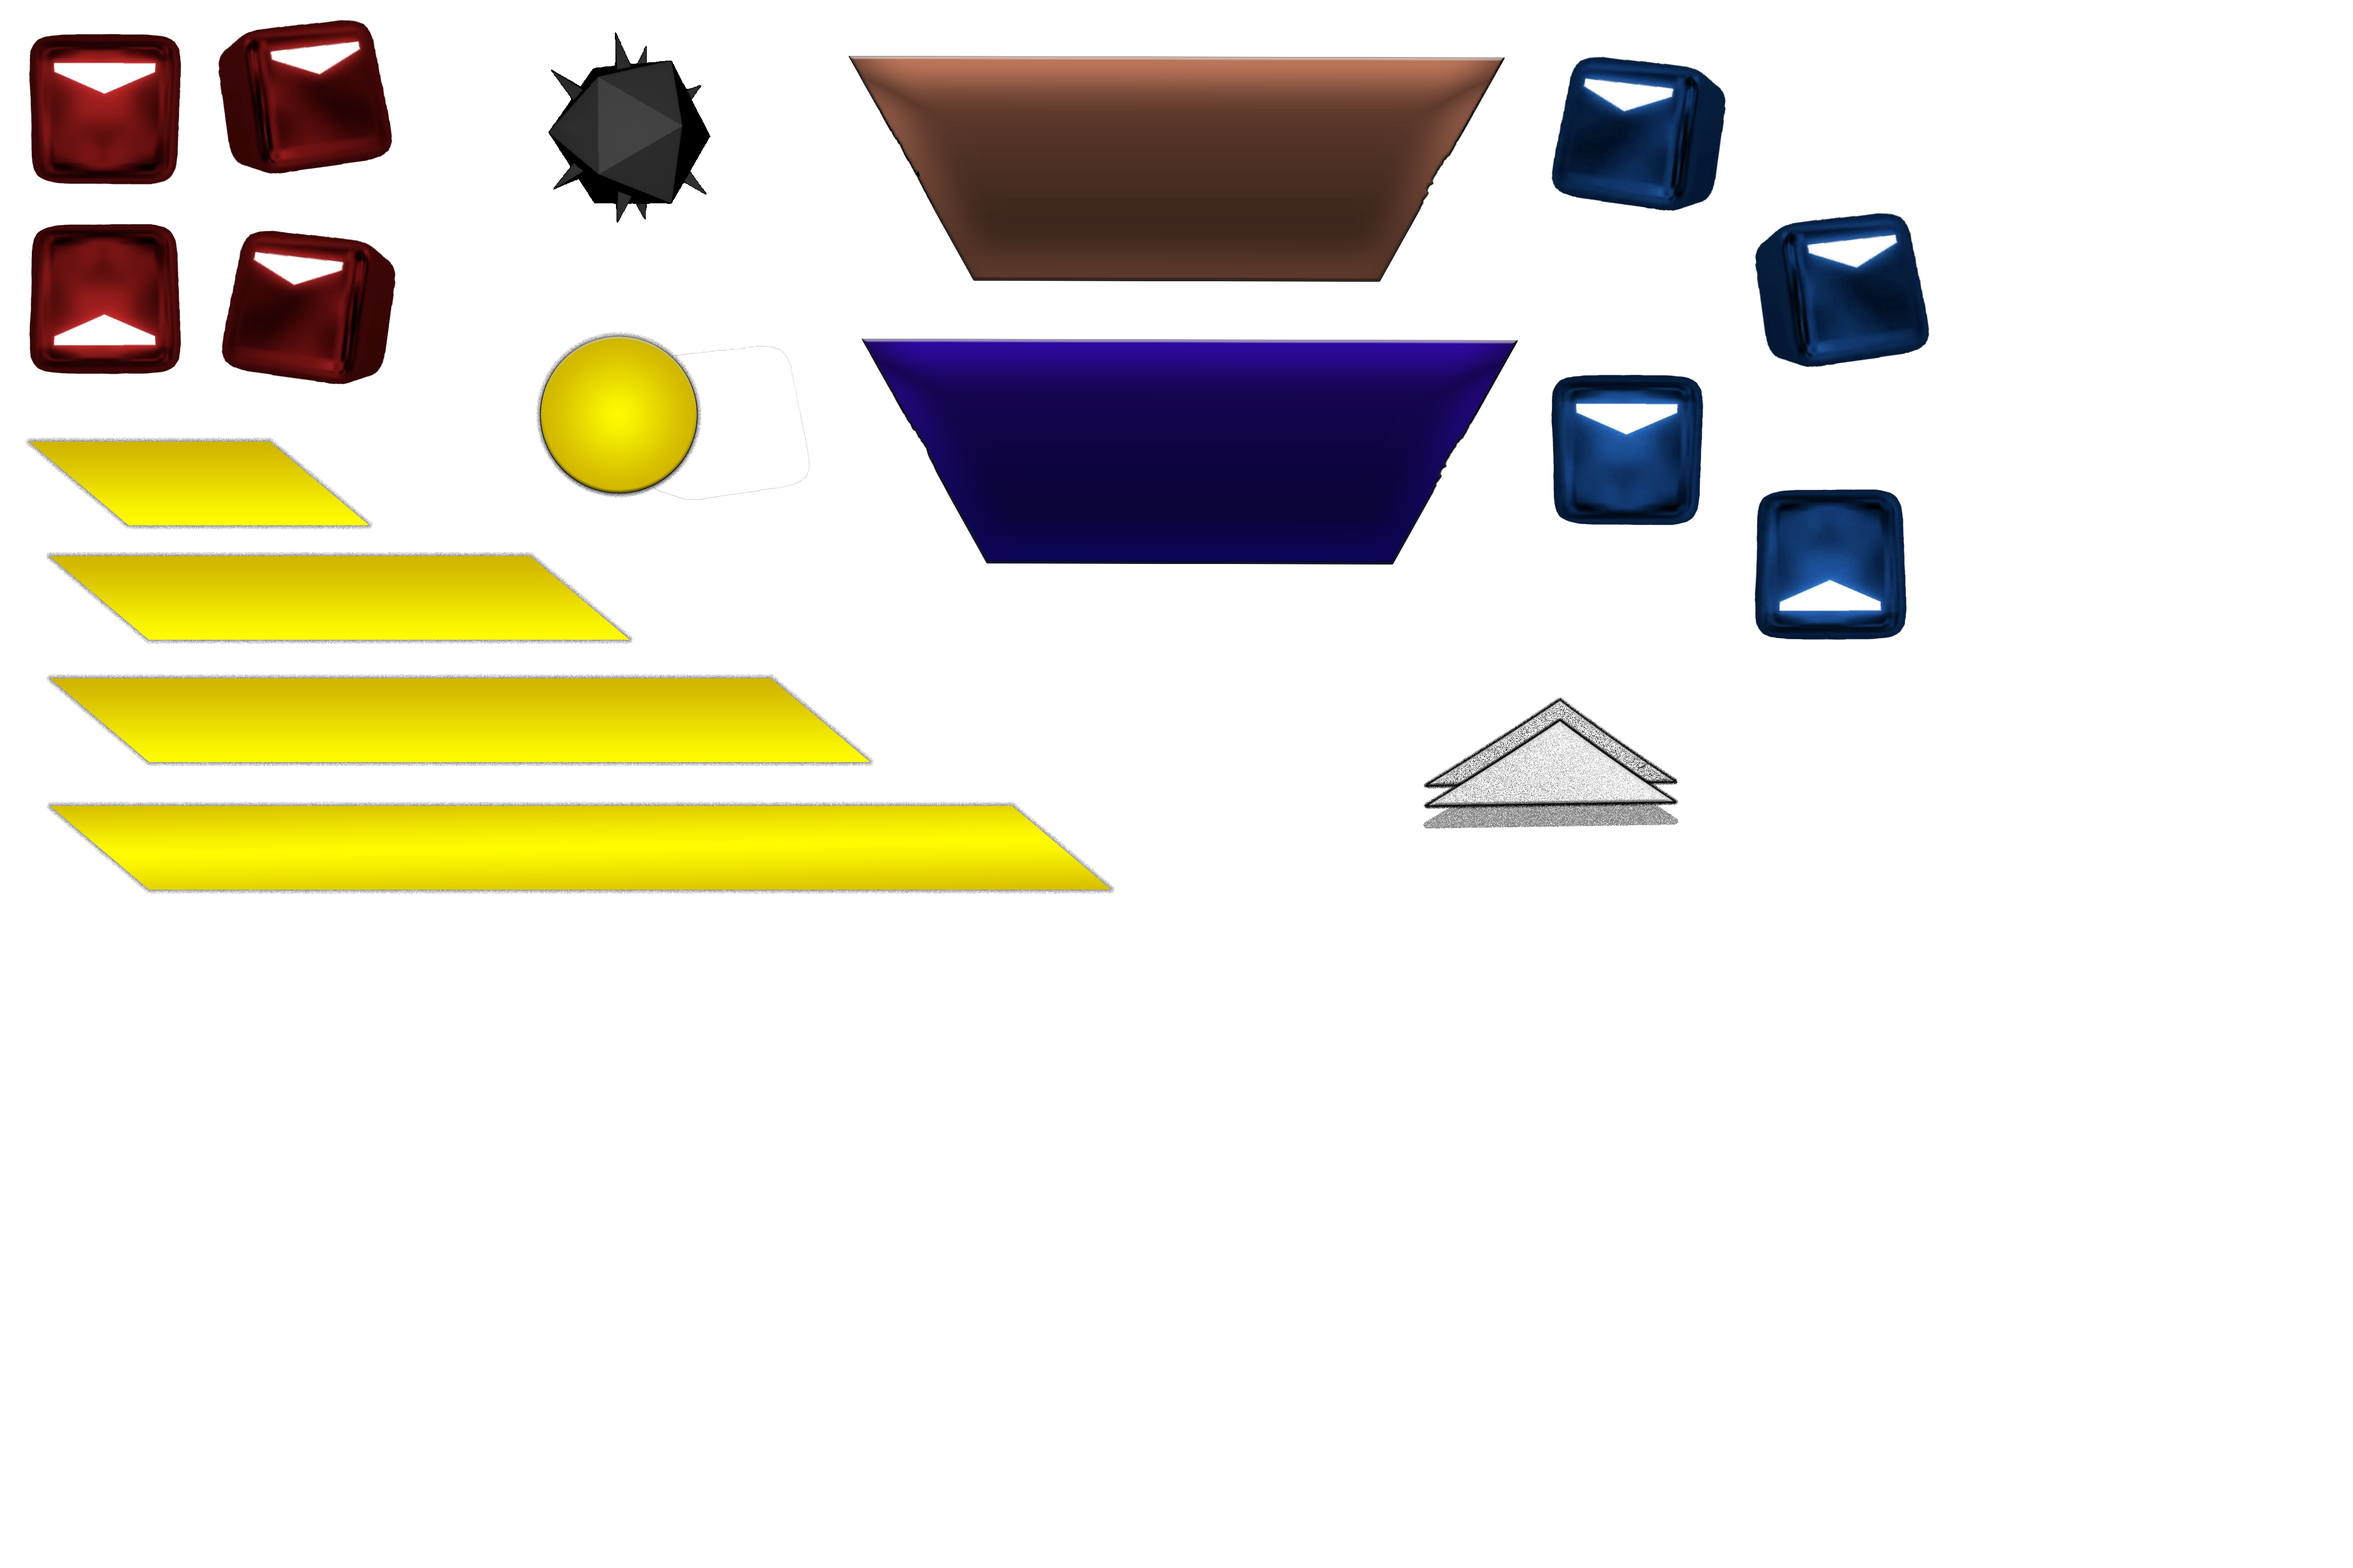
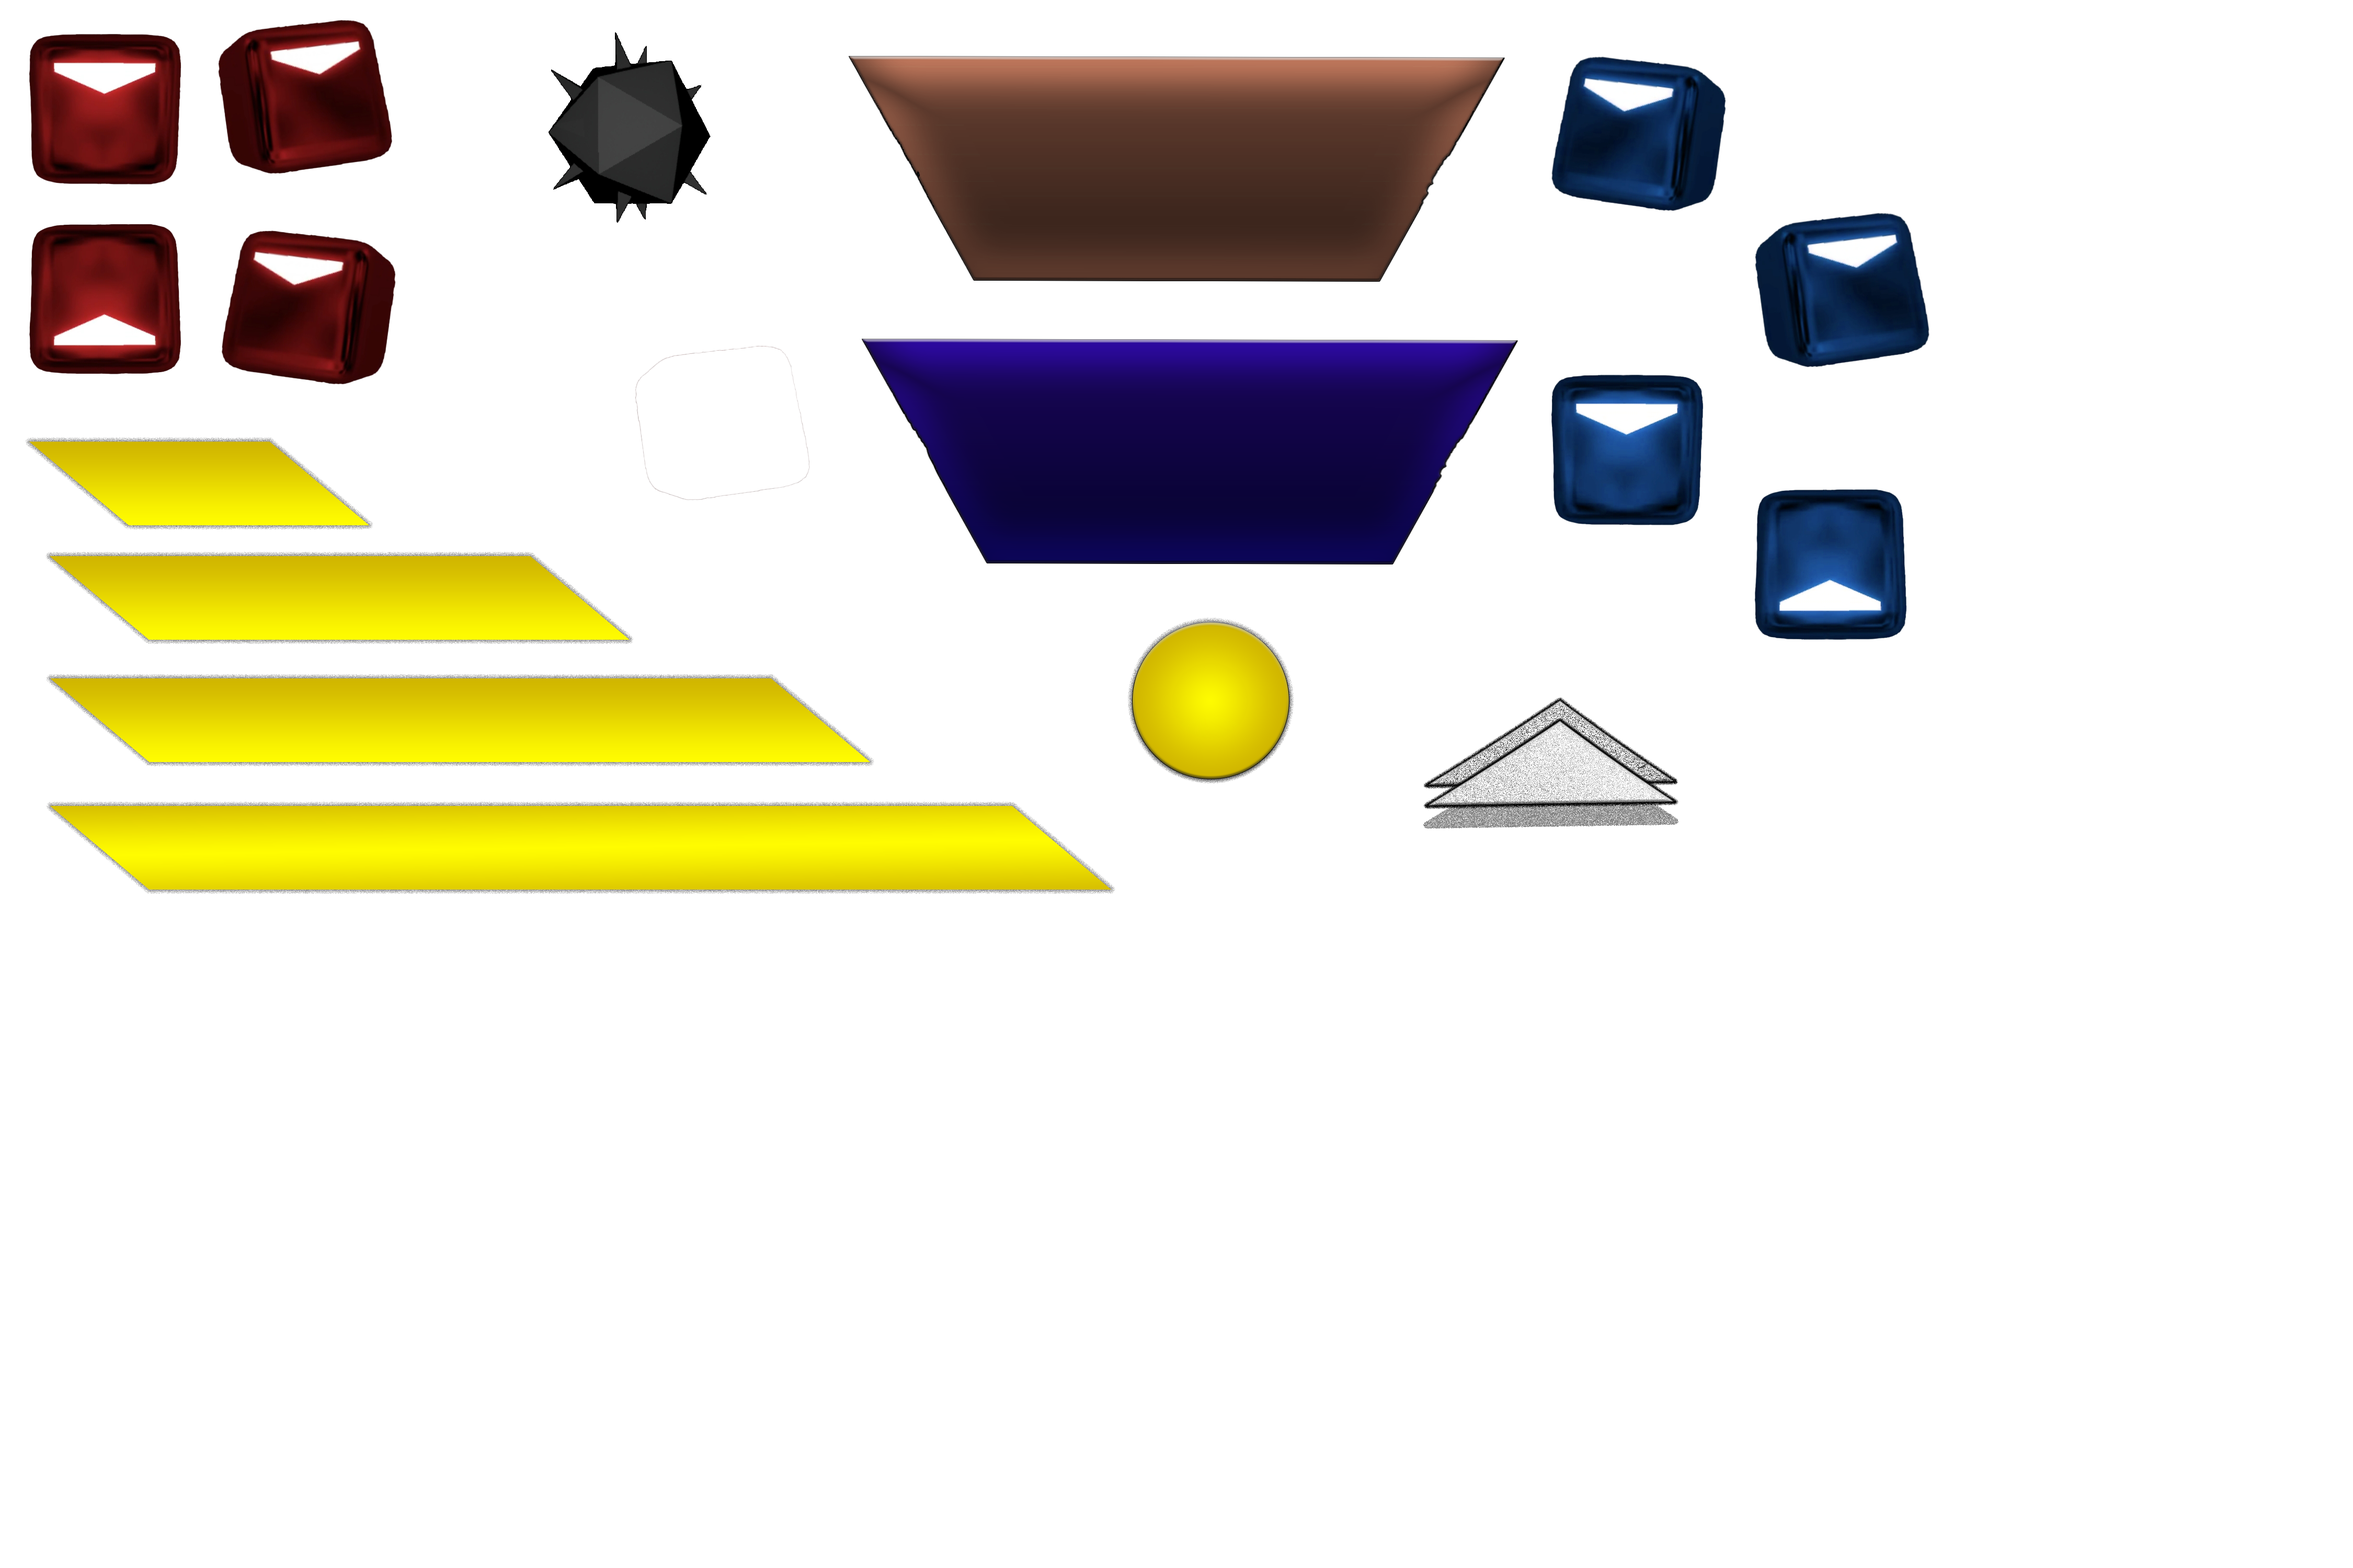
Fixed game assets health ball issue

Changed region(s): [[0.4667, 0.372, 0.56, 0.496], [0.2178, 0.217, 0.3111, 0.341]]

diff --git a/src/ObjectCreater.hpp b/src/ObjectCreater.hpp
@@ -1,0 +1,35 @@
+#include <SDL.h>
+#include <vector>
+#include <list>
+
+// ? header files
+#include "Obstacles.hpp"
+#include "pigeon.hpp"
+#include "bee.hpp"
+#include "butterfly.hpp"
+
+using namespace std;
+
+/**
+ * ? @brief ObjectCreater
+ * * parent class to create the objects that will be displayed on the screen
+ *
+ * ? @functions
+ *
+ * * *getObject(int, int, int): - type static (to call it in HUMania class)
+ * *    - Gets random integer with the help of 'generateRandomInteger()' helper as input
+ * *    - swithes according to random int and and creates Pigeon, Bee or Butterfly pointing object
+ * *    - stores it in Unit * as the classes are inherited by Unit class
+ * *    - and returns pointing object of Unit class (containing reference of Bee, Butterfly or Pigeon)
+ * *    - Takes 3 parameters(int) which defines the x and y pixel of mouse click &
+ * *    - random interger to generate either Pigeon or Bee or Butterfly
+ *
+ */
+class ObjectCreater
+{
+private:
+public:
+    ObjectCreater();
+
+    static Obstacles *getObject();
+};

diff --git a/src/HealthObstacle.cpp b/src/HealthObstacle.cpp
@@ -3,7 +3,7 @@
 Obstacles *HealthObstacle::getObstacles()
 {
     HealthObstacle *asset = new HealthObstacle();
-    asset->src = {1025, 635, 525, 323};
+    asset->src = {2157, 1182, 317, 318};
 
     // TODO : random pos
 
